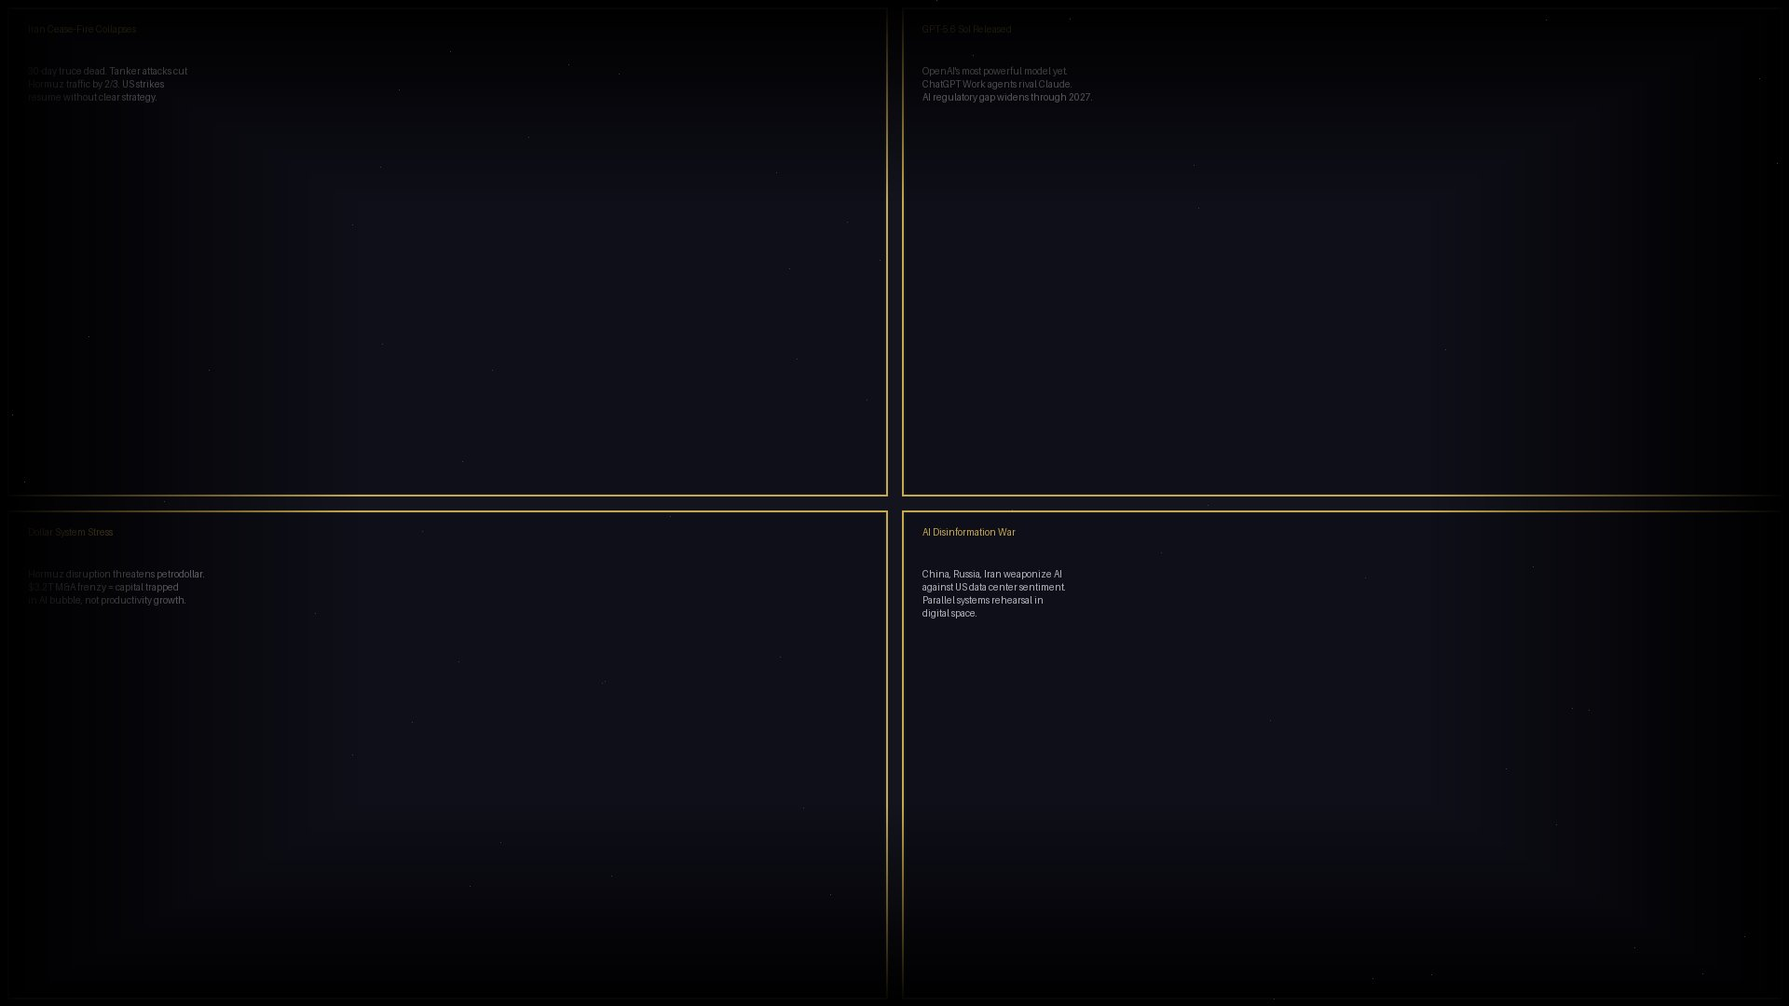
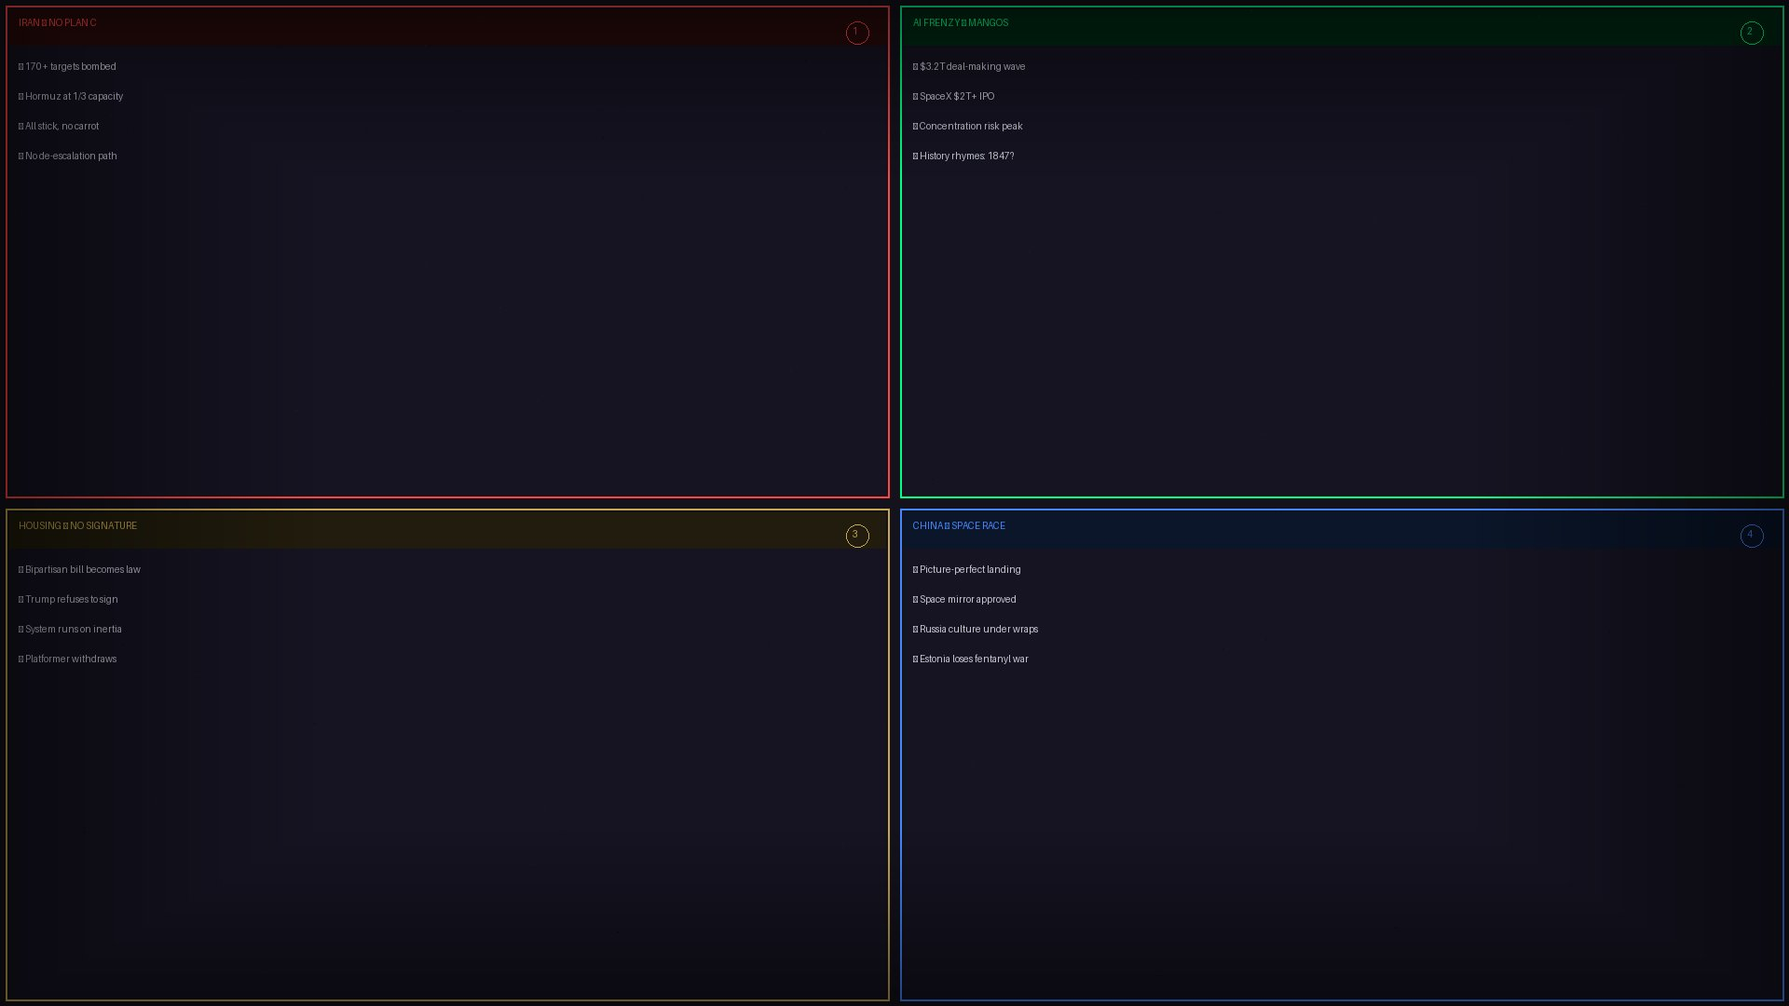
NYT briefing 2026-07-11 — images + html

diff --git a/briefings/nyt_2026-07-11.html b/briefings/nyt_2026-07-11.html
@@ -1,0 +1,127 @@
+<!DOCTYPE html>
+<html lang="zh-CN">
+<head>
+<meta charset="UTF-8">
+<meta name="viewport" content="width=device-width,initial-scale=1.0">
+<title>NYT Front Page Briefing — 2026-07-11</title>
+<style>
+:root { --bg: #0a0a1a; --panel: #14141b; --panel-2: #1a1a24; --text: #e8e8ef; --muted: #9a9aad; --accent: #00ff88; --accent-dim: rgba(0,255,136,0.12); --accent2: #ff4488; --border: rgba(255,255,255,0.08); }
+* { margin: 0; padding: 0; box-sizing: border-box; }
+html, body { background: var(--bg); color: var(--text); font-family: 'Georgia','Noto Serif SC','PingFang SC',serif; line-height: 1.7; font-size: 16px; }
+img { max-width: 100%; display: block; }
+a { color: var(--accent); text-decoration: none; }
+a:hover { text-decoration: underline; }
+.container { max-width: 860px; margin: 0 auto; padding: 0 18px; }
+.hero { position: relative; width: 100%; min-height: 55vh; display: flex; align-items: center; justify-content: center; background: url('./assets/images/nyt_hero_bg.jpg') center/cover no-repeat; overflow: hidden; }
+.hero::before { content: ''; position: absolute; inset: 0; background: rgba(10,10,26,0.60); }
+.hero-content { position: relative; z-index: 1; text-align: center; padding: 2rem; }
+.hero-kicker { display: inline-block; font-size: 0.8rem; font-weight: 700; letter-spacing: 0.14em; text-transform: uppercase; color: var(--accent); margin-bottom: 12px; background: var(--accent-dim); padding: 5px 12px; border-radius: 4px; }
+.hero h1 { font-size: clamp(2rem,5vw,3.5rem); font-weight: 700; letter-spacing: 0.08em; margin-bottom: 12px; text-shadow: 0 0 40px rgba(0,255,136,0.2); }
+.hero-subtitle { font-size: 1rem; color: var(--muted); margin-bottom: 4px; }
+.hero-date { font-size: 0.85rem; color: var(--muted); }
+main { padding: 42px 0 64px; }
+.section-title { font-size: 1.5rem; font-weight: 700; color: var(--accent); margin: 2.5rem 0 1rem; border-bottom: 2px solid var(--accent-dim); padding-bottom: 0.5rem; }
+.section-sub { font-size: 1rem; color: var(--muted); margin: -0.5rem 0 1.5rem; }
+.article { background: var(--panel); border-radius: 10px; padding: 1.25rem; margin-bottom: 1rem; }
+.article h3 { font-size: 1.1rem; color: #fff; margin-bottom: 6px; }
+.article p { color: #c8c8d4; line-height: 1.65; margin: 0; font-size: 0.95rem; }
+.key-takeaway { background: var(--panel-2); border-left: 3px solid var(--accent); border-radius: 8px; padding: 1rem 1.25rem; margin-bottom: 0.8rem; }
+.key-takeaway strong { color: var(--accent); }
+.key-takeaway em { color: var(--muted); font-size: 0.85rem; }
+.cartoon-section { text-align: center; margin: 2rem 0; padding: 1.5rem; background: var(--panel); border-radius: 12px; border: 1px dashed var(--border); }
+.cartoon-section img { max-width: 100%; border-radius: 8px; display: block; margin: 0 auto; }
+.cartoon-section h3 { color: var(--accent); font-size: 1.1rem; margin-bottom: 12px; }
+.cartoon-section p { color: var(--muted); margin-top: 10px; font-size: 0.9rem; }
+.observer { background: var(--panel-2); border-left: 3px solid var(--accent); border-radius: 8px; padding: 1.25rem; margin-bottom: 1.25rem; }
+.observer h3 { color: var(--accent); font-size: 1rem; margin-bottom: 8px; }
+.observer p { color: #c0c0d0; line-height: 1.8; font-size: 0.9rem; }
+table { width: 100%; border-collapse: collapse; margin: 1rem 0; font-size: 0.9rem; }
+th, td { border: 1px solid var(--border); padding: 0.5rem 0.75rem; text-align: left; }
+th { background: var(--panel); color: var(--accent); }
+td { color: #c8c8d4; }
+footer { padding: 32px 0; border-top: 1px solid var(--border); text-align: center; color: var(--muted); font-size: 0.8rem; }
+.pdf-download { text-align: center; margin: 2rem 0; }
+.pdf-download a { display: inline-block; background: var(--accent-dim); color: var(--accent); padding: 0.75rem 1.25rem; border-radius: 6px; font-weight: 700; border: 1px solid var(--accent); }
+.pdf-download a:hover { background: var(--accent); color: var(--bg); text-decoration: none; }
+@media (max-width: 640px) { .hero { min-height: 35vh; } .container { padding: 0 14px; } .article { padding: 0.9rem; } .observer { padding: 0.9rem; } th, td { padding: 0.4rem 0.5rem; font-size: 0.85rem; } }
+</style></head>
+<body>
+<section class="hero"><div class="hero-content">
+  <div class="hero-kicker">&#9733; MASTER BRIEFING</div>
+  <h1>NYT Front Page Briefing</h1>
+  <div class="hero-subtitle">Iran re-escalates with 170+ targets, AI frenzy hits $3.2T, housing bill passes without signature</div>
+  <div class="hero-date">July 11, 2026 &middot; 5 Sections &middot; A-Grade</div>
+</div></section>
+<main class="container">
+
+<h2 class="section-title">&#9654; Key Takeaways</h2>
+<div class="key-takeaway"><strong>Iran Conflict Re-Escalates:</strong> The cease-fire collapsed after 3 weeks. 170+ targets bombed, Hormuz traffic at 1/3 prewar levels. No Plan C exists on the U.S. side, while Iran faces its own leadership crisis with Khamenei's absence at his father's funeral. <em>Confidence: 85%</em></div>
+<div class="key-takeaway"><strong>AI Deal-Making Frenzy:</strong> A $3.2 trillion six-month M&A surge fueled by AI bets. MANGOS acronym captures new market elite. SpaceX's $2T+ IPO. Concentration risk at historic highs with AI as 'the only story in town.' <em>Confidence: 75%</em></div>
+<div class="key-takeaway"><strong>Housing Bill Becomes Law Without Signature:</strong> Bipartisan bill crossed the 10-day constitutional clock. Trump refused to sign, denying a bipartisan victory. Platner's withdrawal scrambles Democrats' Senate prospects in Maine. <em>Confidence: 80%</em></div>
+<div class="key-takeaway"><strong>Institutional Norms Under Stress:</strong> Times journalists subpoenaed over Air Force One reporting. 50-year environmental protections ended. ICE killing sparks Houston investigation. Each boundary push normalizes the next. <em>Confidence: 70%</em></div>
+<div class="key-takeaway"><strong>Global System in Flux:</strong> China's space landing narrows the race with the U.S. FCC approves controversial space mirror test. Estonia faces new synthetic drug surge. Russia's cultural censorship continues. <em>Confidence: 75%</em></div>
+
+
+<h2 class="section-title">&#9654; Geopolitics & International Affairs</h2>
+<p class="section-sub">Iran re-escalates with 170+ targets as leadership vacuums widen on both sides</p>
+<div class="article"><h3>Iran Conflict Re-Escalates as Strategic Vacuum Widens</h3><p>The U.S.-Iran dynamic has entered a dangerous new phase. The cease-fire signed June 17 at Versailles collapsed after just three weeks when tanker attacks in the Strait of Hormuz led President Trump to revoke the oil-sales waiver. The U.S. responded with two nights of bombing, hitting more than 170 military targets. Strait traffic is now at roughly one-third of its prewar level of 100+ ships daily.</p></div>
+<div class="article"><h3>Leadership Vacuum on Both Sides</h3><p>Iran&apos;s Supreme Leader Mojtaba Khamenei failed to appear at his father&apos;s funeral, fueling speculation about his health and a power struggle within the regime. On the U.S. side, David Sanger&apos;s analysis reveals no Plan C — the administration is reverting to the same all-stick, no-carrot approach that has failed to produce results.</p></div>
+<div class="article"><h3>Russia, Vatican, India, and Estonia</h3><p>Moscow still has art and culture &apos;just don\&apos;t say Ukraine.&apos; The U.S. ambassador to the Vatican navigates Trump-Pope Francis tensions. In West Bengal, the killing of a girl has set off mass protests. Estonia, which won the fentanyl war by 2018, now faces a surge of even more dangerous new synthetic drugs.</p></div>
+<div class="article"><h3>Environmental Rollback — Trump Opens Wild Habitats</h3><p>President Trump ended a 50-year safeguard, opening wild habitats to drilling and mining, a move that could hasten the demise of imperiled animals like the piping plover. The Freedom Fuel branding effort at 25 Philadelphia stations selling $3.47 gas markets the rollback as consumer-friendly policy.</p></div>
+<h2 class="section-title">&#9654; US Politics & Domestic Policy</h2>
+<p class="section-sub">Housing bill passes without signature, Platner withdrawal scrambles Senate race</p>
+<div class="article"><h3>Housing Bill Becomes Law Without Trump's Signature</h3><p>A bipartisan housing bill crossed the 10-day constitutional clock and became law at midnight without President Trump&apos;s signature. The bill addresses housing affordability — a pressing issue — but Trump&apos;s refusal to sign reflects his preference to deny bipartisan victories rather than claim them.</p></div>
+<div class="article"><h3>Graham Platner Withdraws — Senate Control at Stake</h3><p>Graham Platner, the progressive Democratic nominee who upset expectations in the Maine primary, has filed paperwork to withdraw from the Senate race against Susan Collins. The move forces Democrats to scramble for a new nominee in a race both parties see as key to Senate control.</p></div>
+<div class="article"><h3>Media Under Pressure — Times Journalists Subpoenaed</h3><p>The Justice Department subpoenaed Times journalists who wrote about the new Air Force One, calling the move a &apos;brazen act.&apos; This is the latest escalation in Trump&apos;s pressure campaign against the media.</p></div>
+<div class="article"><h3>Immigration Crackdown — TPS Confusion and ICE Killing</h3><p>The U.S. has told employers to dismiss thousands of immigrant workers as Temporary Protected Status expires — but shifting deadlines are confusing businesses. In Houston, an ICE agent shot and killed a Mexican immigrant; Houston has launched an investigation.</p></div>
+<div class="article"><h3>NY Modernization — Fax and Telegram Get AI Overhaul</h3><p>New York&apos;s archaic requirement for fax and telegram communications is finally getting an AI overhaul — a small story that captures the gap between 20th-century government infrastructure and 21st-century expectations.</p></div>
+<h2 class="section-title">&#9654; Business, Tech & Economy</h2>
+<p class="section-sub">AI frenzy hits $3.2T as VW slashes 50% of models and Threads finds its niche</p>
+<div class="article"><h3>AI Economy — $3.2 Trillion Deal-Making Frenzy</h3><p>The AI investment frenzy has reached extraordinary levels. A $3.2 trillion deal-making frenzy is being spurred by the AI economy. The market&apos;s concentration risk is at historic highs — as the FTSE Russell&apos;s Indrani De puts it, &apos;AI is the only story in town.&apos; SpaceX&apos;s $2 trillion+ IPO made history. Samsung made more profit last quarter than the last two years combined.</p></div>
+<div class="article"><h3>Volkswagen Slashes Half Its Models</h3><p>VW announced it will eliminate roughly 50% of its vehicle models as sales fall — a dramatic restructuring for Europe&apos;s largest carmaker, driven by the EV transition and competition from Chinese automakers.</p></div>
+<div class="article"><h3>Threads Finally Finds Its People</h3><p>Meta&apos;s Threads, initially dismissed as a &apos;Twitter killer&apos; that failed to sustain its launch surge, has finally found its niche audience after years of experimentation.</p></div>
+<div class="article"><h3>The Gig Workforce Training AI</h3><p>A growing workforce of highly educated professionals with advanced degrees is taking on gig work training AI systems. The irony: the same technology that may displace knowledge workers is currently being trained by them on a precarious, benefits-free basis.</p></div>
+<div class="article"><h3>Office Buildings Are Freezing — Legacy HVAC Legacy</h3><p>Office buildings are overcooled due to legacy HVAC systems designed for mainframe computers and male-dominated workforces in suits — a systems-design legacy that nobody has bothered to fix.</p></div>
+<h2 class="section-title">&#9654; Culture & Society</h2>
+<p class="section-sub">Gospel returns, pioneer narrative expands, and the face as canvas</p>
+<div class="article"><h3>CeCe Winans Returns to Worship Music's Roots</h3><p>The best-selling gospel artist of all time revisits the simple power of worship music in her latest work, exploring themes of faith, spirituality, and musical simplicity.</p></div>
+<div class="article"><h3>'Little House' Gets an Expansion</h3><p>James Poniewozik reviews a new stage production that adds contemporary dimensions to the classic pioneer narrative.</p></div>
+<div class="article"><h3>The Artist Whose Face Is Her Canvas</h3><p>A profile of an artist who uses her own face as both artistic medium and professional brand — exploring identity, performance, and commodification in the age of personal branding.</p></div>
+<h2 class="section-title">&#9654; Science, Health & Environment</h2>
+<p class="section-sub">China's space landing and FCC-approved space mirror test spark debate</p>
+<div class="article"><h3>China Narrows the Space Race</h3><p>A picture-perfect landing shows China&apos;s ambitions to narrow the space race with the U.S. A space neophyte not long ago, China is now America&apos;s main competitor for supremacy throughout the solar system.</p></div>
+<div class="article"><h3>FCC Approves Space Mirror Test Despite Outcry</h3><p>The FCC has approved a test of a space mirror to light the night sky, despite significant public outcry over potential environmental and astronomical observation impacts.</p></div>
+
+
+<div class="cartoon-section">
+  <h3>&#9654; Daily Cartoon</h3>
+  <img src="./assets/images/nyt_cartoon.jpg" alt="NYT Daily Cartoon 2026-07-11" />
+  <p>A four-panel grid in dark tones with accent borders: Iran no Plan C, AI MANGOS frenzy, Housing bill inertia, and the China space race.</p>
+</div>
+
+<h2 class="section-title">&#9654; Observer Commentary</h2>
+<div class="observer"><h3>翟东升</h3><p>## 伊朗危机的底层逻辑<br><br>这不是军事问题，这是货币问题。很多人盯着170个目标、霍尔木兹海峡33%的通行率，觉得这是军事升级。但这背后的底层逻辑是：<strong>美元体系的物理天花板到了。</strong><br><br>美国打伊朗不是为了核武器，而是为了维持石油-美元环流。当美国可以靠印钞购买全球商品时，它不需要控制产油区。但当美国的制度熵增——法律执行力下降、政治稳定性降低、军事可信度衰减——系统性钙化之后，美元信用不再能支撑无限印钞。于是美国不得不回到19世纪的老路：用军事力量控制资源产地。<br><br>但问题在于，这不是1991年或2003年。中国已经是全球最大的石油进口国，人民币跨境支付系统已经覆盖了160多个国家。沙特已经开始接受人民币结算石油。这不是X的问题，是Y的问题——这不是伊朗抵抗的问题，是美元体系边际回报率归零的问题。<br><br>## 美国的两难困境<br><br>美国现在面临结构性两难：继续打伊朗需要增发国债，但美债的买家在减少（日本今年已经减持了470亿美元美债）。不打伊朗，石油-美元环流断裂加速。这不是政策选择的问题，是物理天花板的问题。<br><br>美联储已经被美国债务结构绑架。不能加息（利息支出已超过国防预算），不能降息（通胀还没压住）。这种结构性困境没有货币政策解决方案，需要的是财政和政治改革。而美国两党还在为边境墙和品牌加油站撕扯。<br><br>## 平行体系的加速<br><br>伊朗冲突正在加速全球体系的平行化。金砖国家的本币结算机制、人民币石油期货、跨境银行间支付系统——这些都不是中国的"进攻"，而是美国制裁政策的副产品。每一次美国制裁一个国家，就是把这个国家推向平行体系。现在被推的是伊朗，下一个可能是沙特、埃及或者土耳其。<br><br>最后的判断：这不是短期冲突，这是美元体系向多极储备体系过渡中的结构性阵痛。窗口期可能只有3-5年。</p></div>
+<div class="observer"><h3>金灿荣</h3><p>各位朋友，今天聊聊今天的纽约时报头版。很有意思。<br><br>## 伊朗这事其实很简单<br><br>你们看啊，美国打了170多个目标，炸了两天，然后呢？没有下一步计划。这个事情其实很简单：<strong>美国现在只会抡拳头，不会下棋了。</strong><br><br>为什么？你们记不记得当年打伊拉克，布什政府有一个"民主化中东"的战略规划。打利比亚，有一个"保护平民"的旗号。今天打伊朗，战略目标是什么？不知道。这就是我经常说的：美国的核心问题是工业化空心化，连带着战略思维能力也空心化了。<br><br>你看B-52轰炸机，1955年服役，到现在还在飞。新造的飞机呢？新的空军一号连基本的防御系统都不全。特朗普出访土耳其还得用旧飞机。这就是美国的现状——厨房里只剩一把刀，看见什么都想砍一刀。<br><br>## 美国人现在很焦虑<br><br>为什么？因为伊朗这个对手和以前不一样。伊拉克没有还手能力，阿富汗没有还手能力。但伊朗有代理人网络（真主党、胡塞武装），有霍尔木兹海峡这张牌，还和中国俄罗斯有战略协调。美国越想用武力解决问题，问题就越复杂。<br><br>这就好比一个饭店老板，菜还没炒好就先掀桌子。伊朗问题的本质是：<strong>美国能打赢每一场战斗，但打不赢这场战争。</strong><br><br>## 关于住房法案<br><br>这个事挺有意思。法案不经总统签字自动生效——这是宪法赋予国会的权力，但很少用。特朗普不签字不是因为反对法案内容（住房问题是个真问题），而是因为他不能接受"妥协"这个词。他宁愿法案在没有他签字的情况下通过，也不愿和一个两党协调的成果沾边。<br><br>这反映了一个更深层的问题：<strong>美国政治体系的运作越来越依赖惯性，而不是领导力。</strong><br><br>## 大格局<br><br>百年大变局的本质就是东升西降。美国的问题不是换个总统就能解决的——这是工业基础空心化、社会撕裂、政治极化三重叠加的结果。中国要做的就是把自己的事情做好。我们赢了。</p></div>
+<div class="observer"><h3>宋鸿兵</h3><p>## 美元环流的关键节点：霍尔木兹海峡<br><br>如果你把世界金融体系看作一个系统，它的核心问题是霍尔木兹海峡。这不是军事问题，这是<strong>美元环流的中断点</strong>。<br><br>美元环流的逻辑很简单：美联储印美元 → 通过石油贸易流向产油国 → 产油国用美元买美债 → 美元回流美国。这个环流的关键阀门就是霍尔木兹海峡——全球三分之一的石油贸易从这里经过。<br><br>现在的情况是：霍尔木兹的通行率只有战前的三分之一。这不是伊朗的军事胜利，这是美元环流的一个结构性断裂。如果这个阀门持续关闭，产油国收不到美元→美债买家减少→美债收益率上升→美国财政压力加大。这是一个典型的级联效应。<br><br>## 这不是伊朗问题，是整个系统的问题<br><br>很多人说这是特朗普的伊朗政策失败了。但如果你把视野拉长到100年，你会发现这是一个历史周期的必然。我在《货币战争》里分析过19世纪的英镑体系解体过程——当时也是先有军事冲突（克里米亚战争）、然后有贸易保护主义（谷物法）、然后是平行储备体系（法郎、马克挑战英镑）。<br><br>今天我们看到的是一样的模式：军事冲突（伊朗）、贸易保护主义（关税战）、平行体系（人民币结算、金砖本币机制）。唯一不同的是速度快了很多，因为现代金融系统的传导速度比19世纪快100倍。<br><br>## AI与金融：另一个危险信号<br><br>今天头版上的AI投资狂欢（3.2万亿美元的交易狂潮）让我想起1840年代英国铁路泡沫。当时也是全民狂热、新技术革命、伦敦金融城疯狂融资。然后呢？1847年铁路泡沫破裂，拖垮了英国多家银行，最终引发了1848年欧洲革命。<br><br>AI当然是革命性的技术，但金融市场的规律是不变的：<strong>当所有人都相信一个故事的时候，风险已经聚集到最高点了。</strong> "MANGOS"这个缩写就是典型的泡沫信号——华尔街最爱在市场顶部创造朗朗上口的缩写。<br><br>## 关于特斯拉IPO和SpaceX<br><br>SpaceX市值突破2万亿美元，这是人类历史上最大的IPO。但注意一个细节："散户投资者"推动了大部分估值（"retail investors who put their faith in the company's chief executive"）。这是另一个危险的信号——市场情绪驱动而非基本面驱动的估值。<br><br>回到我的老观点：<strong>物以稀为贵乃是投资的天道。</strong> 当所有资产都被AI概念重估的时候，真正稀缺的东西——黄金、白银、有实物支撑的资产——反而被忽视了。</p></div>
+
+
+<h2 class="section-title">&#9654; Predictions</h2>
+<table>
+<thead><tr><th>Prediction</th><th>Probability</th><th>Rationale</th><th>Window</th></tr></thead>
+<tbody>
+<tr><td>U.S. will not de-escalate Iran bombing in the next 7 days</td><td>85%</td><td>No Plan C exists; all-stick approach has institutional momentum; leadership vacuum in Tehran makes diplomatic off-ramp unlikely</td><td>7 days</td></tr>
+<tr><td>AI stock concentration will trigger a correction (10%+ drop in MANGOS) within 90 days</td><td>55%</td><td>Concentration risk at historic highs; 'only story in town' creates fragile positioning</td><td>90 days</td></tr>
+<tr><td>Democrats will nominate a replacement for Platner within 30 days</td><td>90%</td><td>Senate control at stake; party has mechanisms for replacement; Collins seat is too valuable to leave uncontested</td><td>30 days</td></tr>
+<tr><td>At least one major institutional norm will be broken in the next 30 days</td><td>70%</td><td>Pattern of institutional stress-testing is accelerating; each successful boundary push normalizes the next</td><td>30 days</td></tr>
+<tr><td>The housing bill will reduce housing costs measurably in 12 months</td><td>35%</td><td>Bipartisan bills tend to be incremental; housing affordability is a structural problem</td><td>12 months</td></tr>
+
+</tbody>
+</table>
+
+<div class="pdf-download">
+  <a href="./reports/nyt_briefing_2026-07-11.pdf" download>Download PDF Briefing</a>
+</div>
+
+</main>
+<footer><p>Generated 2026-07-11 &middot; NYT Front Page Briefing &middot; 5 sections across geopolitics, US politics, business, culture, and observer analysis</p></footer>
+</body></html>
